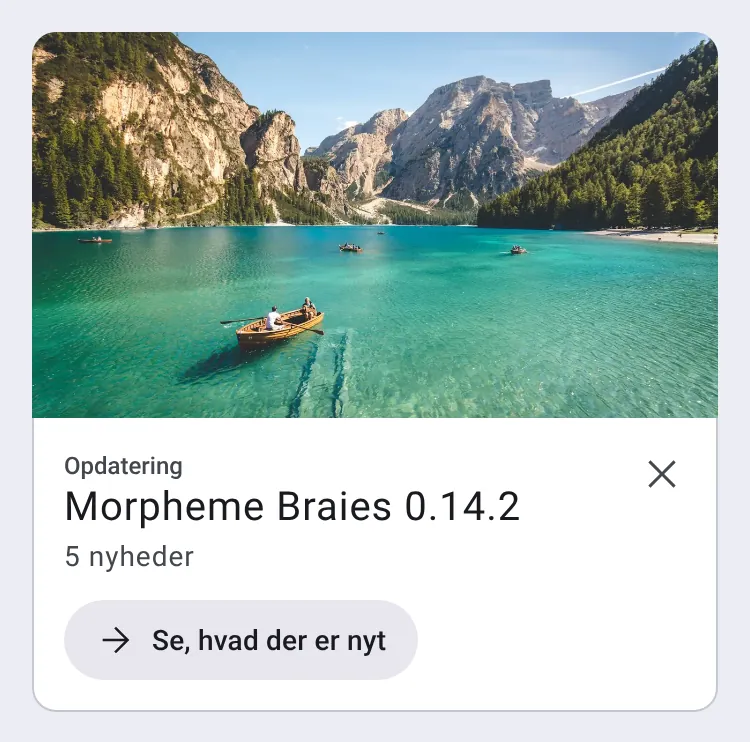
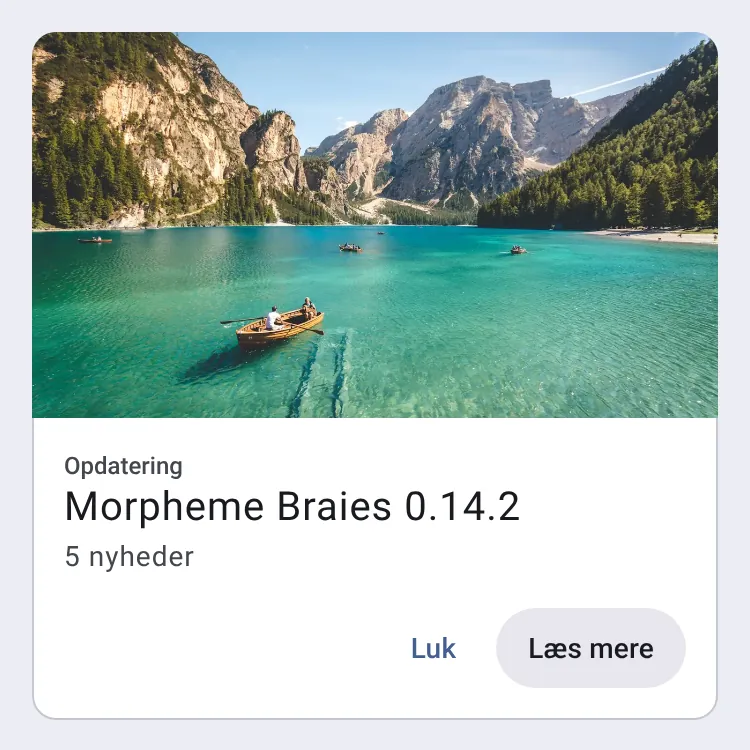
Close and Read more on the update card, the photo beside the text on desktop
The card's close button is now Close (a text button, which marks it seen)
next to Read more (to the Morpheme page), in place of the X and See what's
new. From the theme's expanded width, the photo sits to the left of the
text. An edition keeps its photo and name until the next release adds one.

Claude-Session: https://claude.ai/code/session_01GGzusN3TCZExqovwX6Beg3

diff --git a/src/UpdatesNotice.tsx b/src/UpdatesNotice.tsx
@@ -1,11 +1,10 @@
-// At the top of the start screen: what was updated since the last visit in this browser, as a small card with a close
-// button that marks it seen. For the CMS: the photo of its edition (16:9, release-notes/editions/, named after the place
-// the photo is from), "Morpheme <edition> <version>" and how many new things it brings (bundledNotes.ts), and a button to the
+// At the top of the start screen: what was updated since the last visit in this browser, as a small card (the photo
+// to the left of the text from the expanded width) with Close, which marks it seen, and Read more. For the CMS: the photo of its edition (16:9, release-notes/editions/, named after the place
+// the photo is from), "Morpheme <edition> <version>" and how many new things it brings (bundledNotes.ts), and Read more to the
 // Morpheme page with all of them; for each app installed from the store: a row with its icon and new version, to its
 // Information tab. Exposes UpdatesNotice. The logic is startView.mjs's (changesSince) and releaseNotes.mjs's (notesSince,
 // editionOf), the storage startStorage.ts's, the card, rows and buttons the theme's (themeUi.ts, ui.tsx).
 import { useEffect, useState } from 'react';
-import { ArrowRight } from '@phosphor-icons/react';
 import { version } from '../package.json';
 import { locale, t } from './i18n';
 import { installedApps } from './apps';
@@ -14,7 +13,7 @@ import { changesSince, versioned, type Versions } from './startView.mjs';
 import { keepStored, SEEN, storedSeen } from './startStorage';
 import type { RepoFile } from './github';
 import { SiteCard } from './themeUi';
-import { CloseButton, LinkButton, ListItem, plainListClass } from './ui';
+import { Button, LinkButton, ListItem, plainListClass } from './ui';
 import { CMS_ROUTE } from './CmsPage';
 import { appHref } from './AppList';
 import { runningEdition, runningNotes } from './bundledNotes';
@@ -61,21 +60,27 @@ export function UpdatesNotice({ files }: { files: RepoFile[] }) {
       as="section"
       role="status"
       aria-labelledby="updates-title"
-      className="mb-8 max-w-xl overflow-hidden [--card-padding:0]"
+      className="mb-8 max-w-xl overflow-hidden [--card-padding:0] expanded:max-w-3xl"
     >
-      {edition && <img src={edition.image} alt="" className="block aspect-video w-full object-cover" />}
-      <div className="relative p-4 pe-14">
-        <CloseButton onClick={close} />
-        <h2 id="updates-title" className="text-xs font-medium text-muted">
-          {t.library.updatesTitle}
-        </h2>
-        <p className="text-xl leading-tight [overflow-wrap:anywhere]">{title}</p>
-        {news.length > 0 && <p className="mt-0.5 text-sm text-muted">{t.library.newThings(news.length)}</p>}
-        {cms && (
-          <LinkButton kind="tonal" size="small" href={`#${CMS_ROUTE}`} icon={ArrowRight} className="mt-3">
-            {t.library.seeWhatsNew}
-          </LinkButton>
-        )}
+      <div className="expanded:flex">
+        {edition && <img src={edition.image} alt="" className="block aspect-video w-full object-cover expanded:w-80 expanded:shrink-0" />}
+        <div className="flex min-w-0 grow flex-col p-4">
+          <h2 id="updates-title" className="text-xs font-medium text-muted">
+            {t.library.updatesTitle}
+          </h2>
+          <p className="text-xl leading-tight [overflow-wrap:anywhere]">{title}</p>
+          {news.length > 0 && <p className="mt-0.5 text-sm text-muted">{t.library.newThings(news.length)}</p>}
+          <div className="mt-auto flex flex-wrap justify-end gap-2 pt-4">
+            <Button kind="text" size="small" onClick={close}>
+              {t.common.close}
+            </Button>
+            {cms && (
+              <LinkButton kind="tonal" size="small" href={`#${CMS_ROUTE}`}>
+                {t.library.readMore}
+              </LinkButton>
+            )}
+          </div>
+        </div>
       </div>
       {updatedApps.length > 0 && (
         <ul className={`${plainListClass} border-t border-line`}>

diff --git a/src/i18n/en-US/library.ts b/src/i18n/en-US/library.ts
@@ -24,7 +24,7 @@ export const library = {
   /** Under the CMS's new version: how many new things its release notes have since the version seen last. */
   newThings: (count: number) => (count === 1 ? '1 new thing' : `${count} new things`),
   /** The button to the Morpheme page, with all the release notes. */
-  seeWhatsNew: 'See what’s new',
+  readMore: 'Read more',
   /** Under an updated app's name. */
   appUpdatedTo: (version: string) => `Updated to ${version}`,
   githubAccount: (login: string) => `GitHub account: ${login}`,

diff --git a/src/i18n/da-DK/library.ts b/src/i18n/da-DK/library.ts
@@ -12,7 +12,7 @@ export const library: Messages['library'] = {
   cmsEdition: (edition, version) => `Morpheme ${edition} ${version}`,
   appsUpdated: (count) => (count === 1 ? '1 app er opdateret' : `${count} apps er opdateret`),
   newThings: (count) => (count === 1 ? '1 nyhed' : `${count} nyheder`),
-  seeWhatsNew: 'Se, hvad der er nyt',
+  readMore: 'Læs mere',
   appUpdatedTo: (version) => `Opdateret til ${version}`,
   githubAccount: (login) => `GitHub-konto: ${login}`,
   logOut: 'Log ud',

diff --git a/.changeset/README.md b/.changeset/README.md
@@ -57,4 +57,5 @@ where it was taken. After an update, the start screen shows the photo and "Morph
   `photo` (`by`, `source` and `license`).
 - `release-notes/editions/<version>.webp`: the photo, 16:9, 1280 × 720 px, at most 200 KB.
 
-A version shows the newest edition whose version is at most its own, so an edition lasts until the next one.
+A version shows the newest edition whose version is at most its own, so an edition keeps its photo and name until the
+next release adds a new one.
